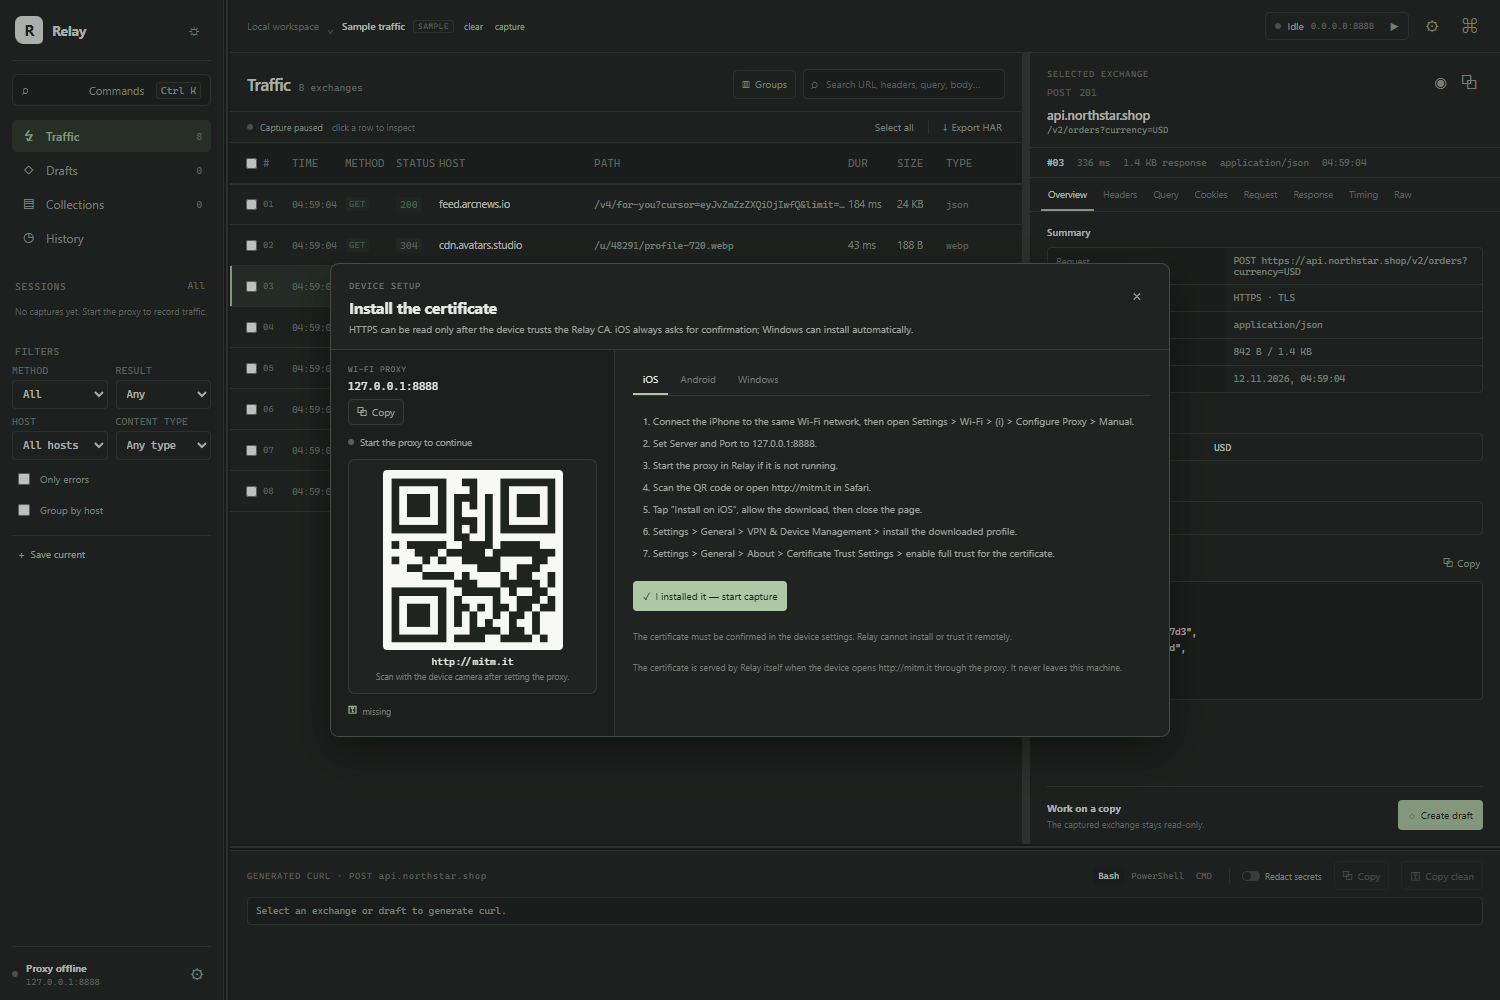
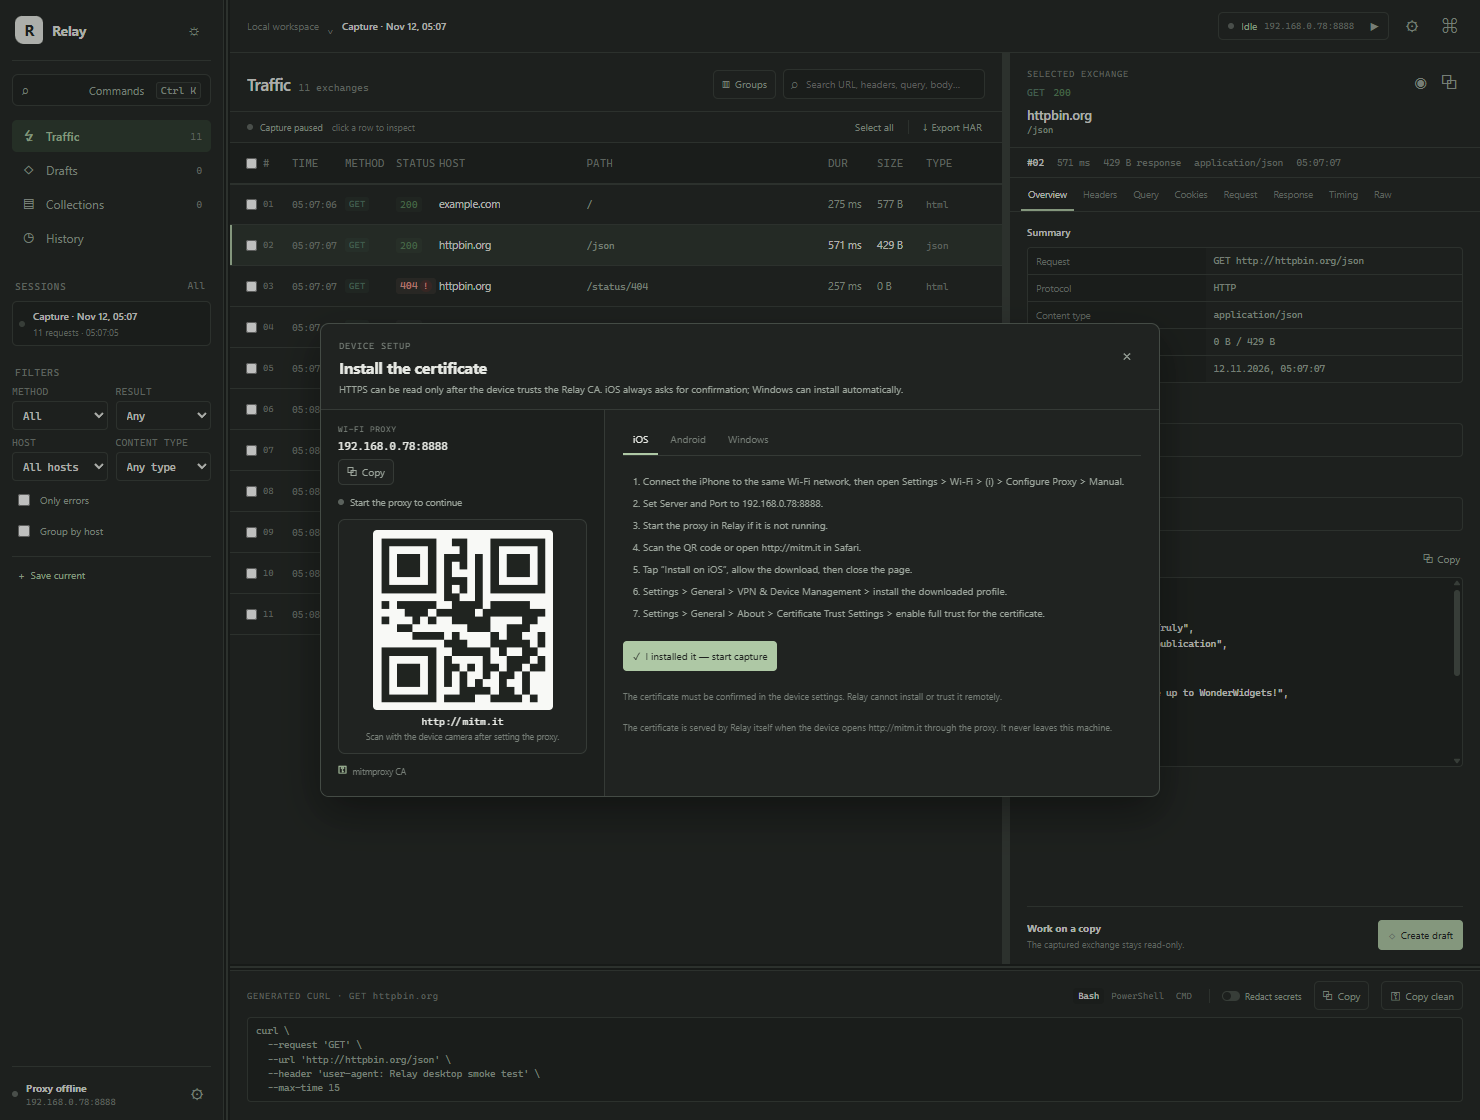
Show the reachable address in the capture indicator
Use the LAN or loopback address instead of the 0.0.0.0 bind address, and
refresh the desktop screenshots from a live capture session.

diff --git a/frontend/src/App.tsx b/frontend/src/App.tsx
@@ -1327,7 +1327,7 @@ export default function App() {
               <span className={proxy.running ? "live-dot" : "idle-dot"} />
               <span>{proxy.running ? "Capturing" : "Idle"}</span>
               <small>
-                {proxy.host}:{proxy.port}
+                {bindAll ? config.lanIp || "127.0.0.1" : proxy.host}:{proxy.port}
               </small>
               <button
                 className="icon-button"
